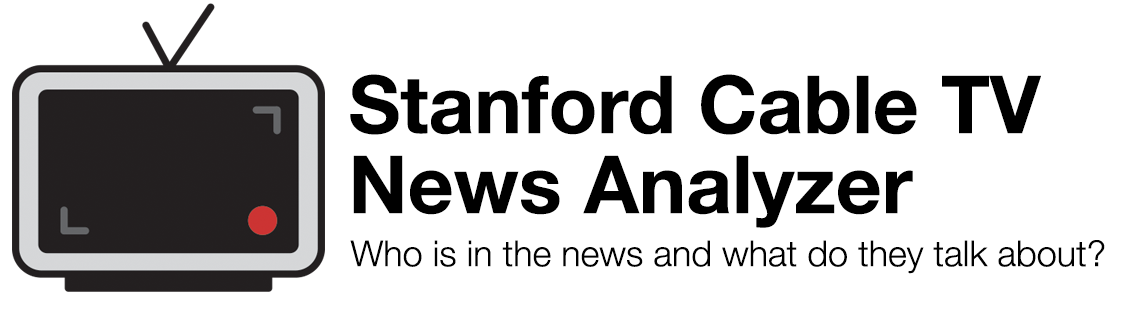
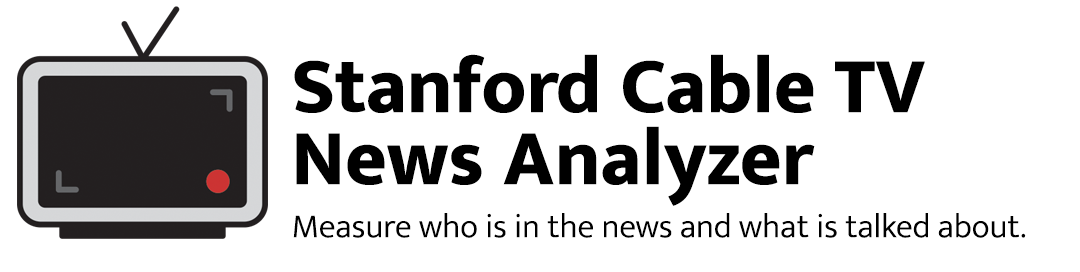
clean up OG image.

Changed region(s): [[0.0, 0.0, 1.0, 0.9706]]

diff --git a/templates/layout.html b/templates/layout.html
@@ -6,8 +6,8 @@
   <meta property="og:type" content="website" />
   <meta property="og:description" content="The Stanford Cable TV Analyzer lets you measure who and what is on cable TV news" />
   <meta property="og:image" content="https://{{ host }}/static/img/analyzer_og_image.png" />
-  <meta property="og:image:width" content="1122" />
-  <meta property="og:image:height" content="310" /> -->
+  <meta property="og:image:width" content="1080" />
+  <meta property="og:image:height" content="272" /> -->
 {% endif %}{% endblock %}
 
 {% if analytics_str %}{{ analytics_str|safe }}{% endif %}
